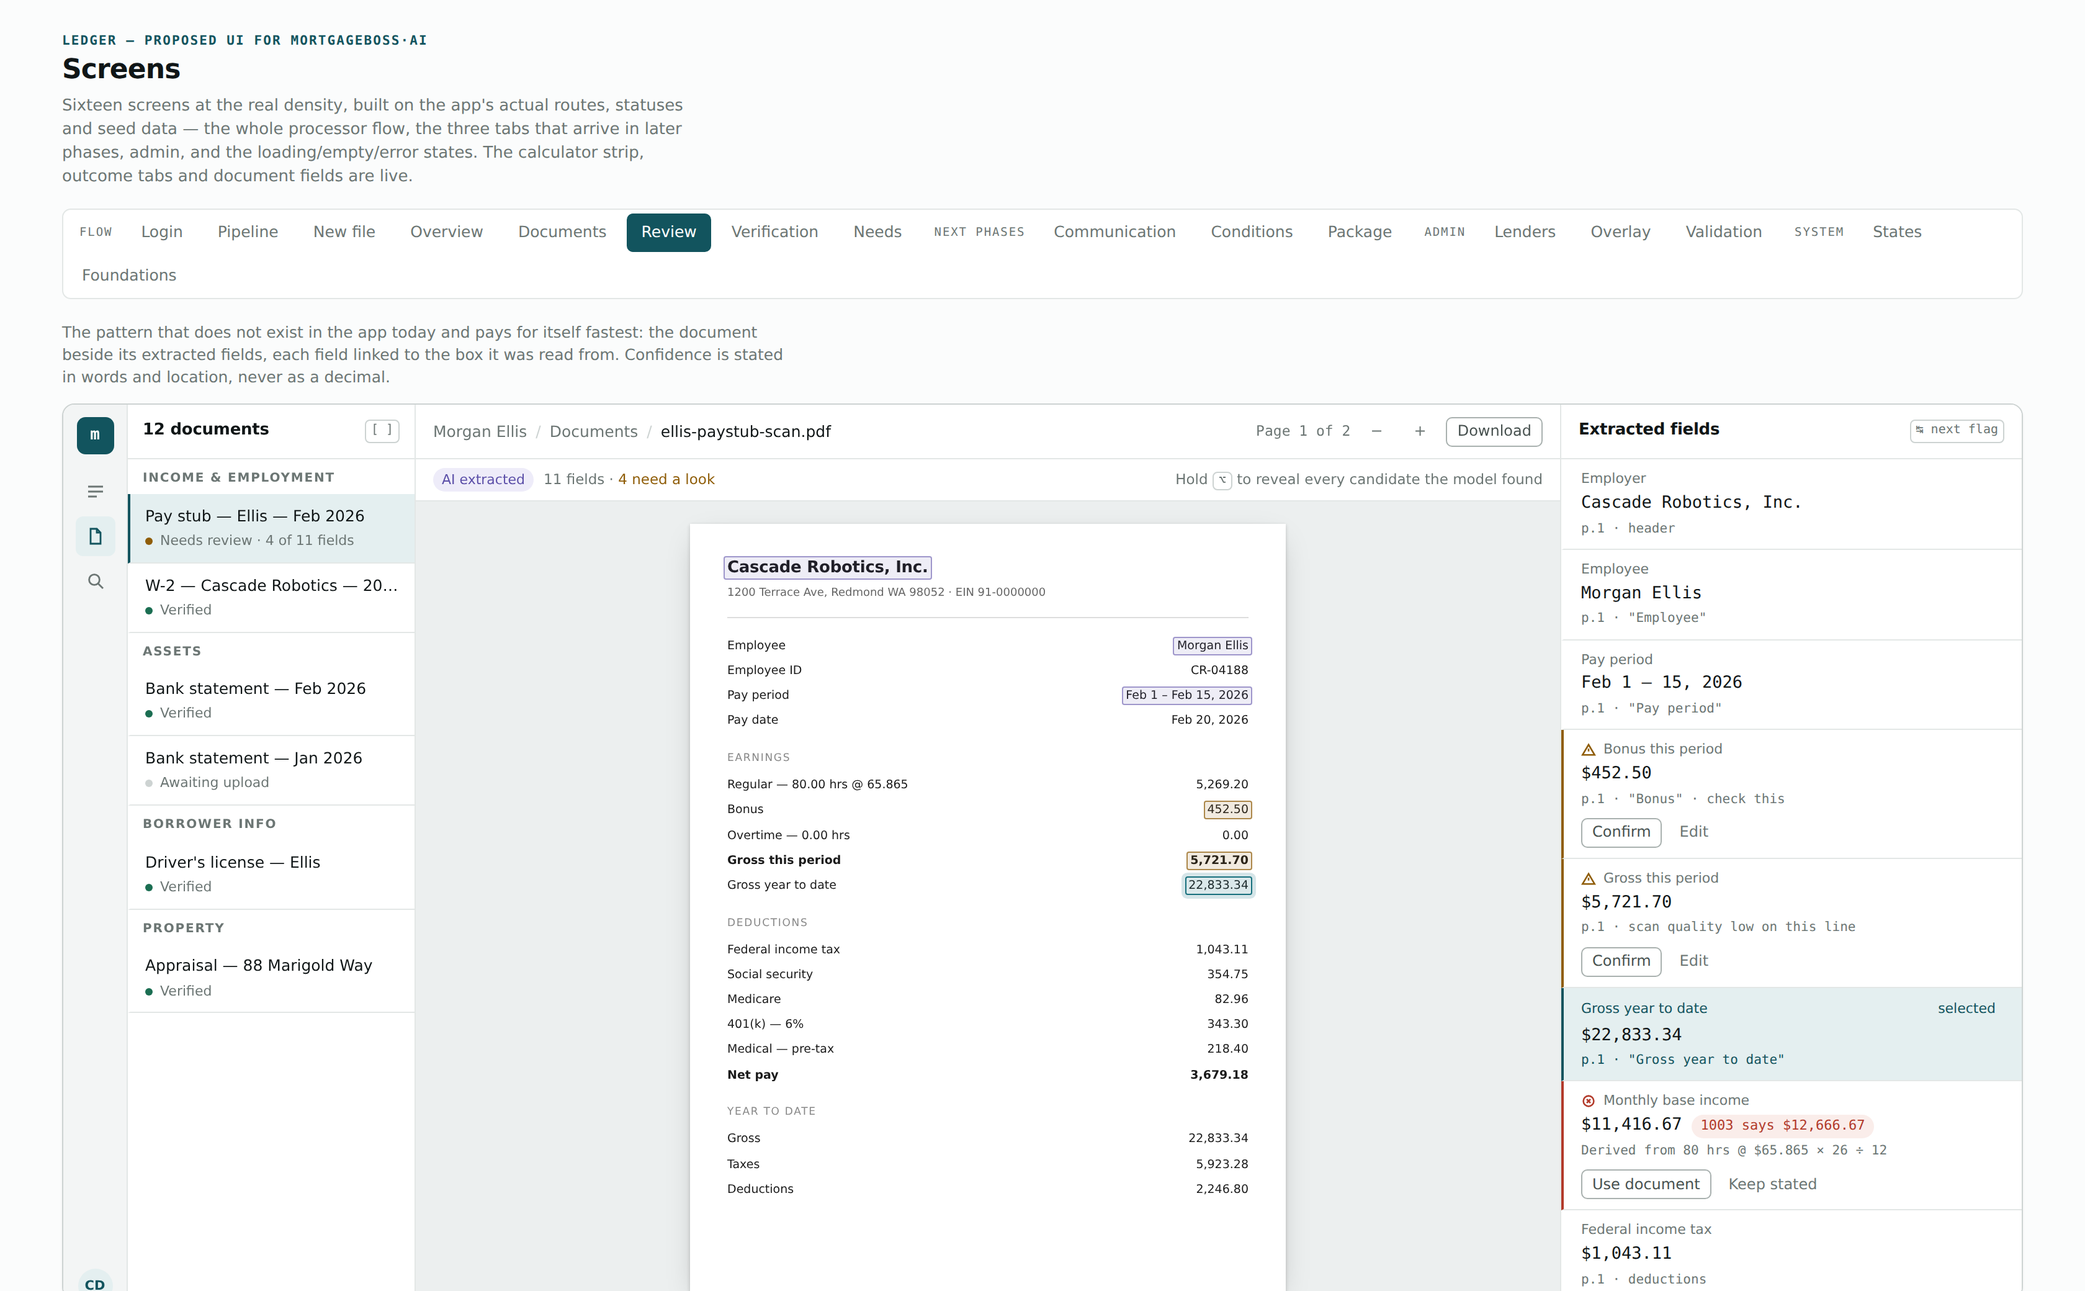
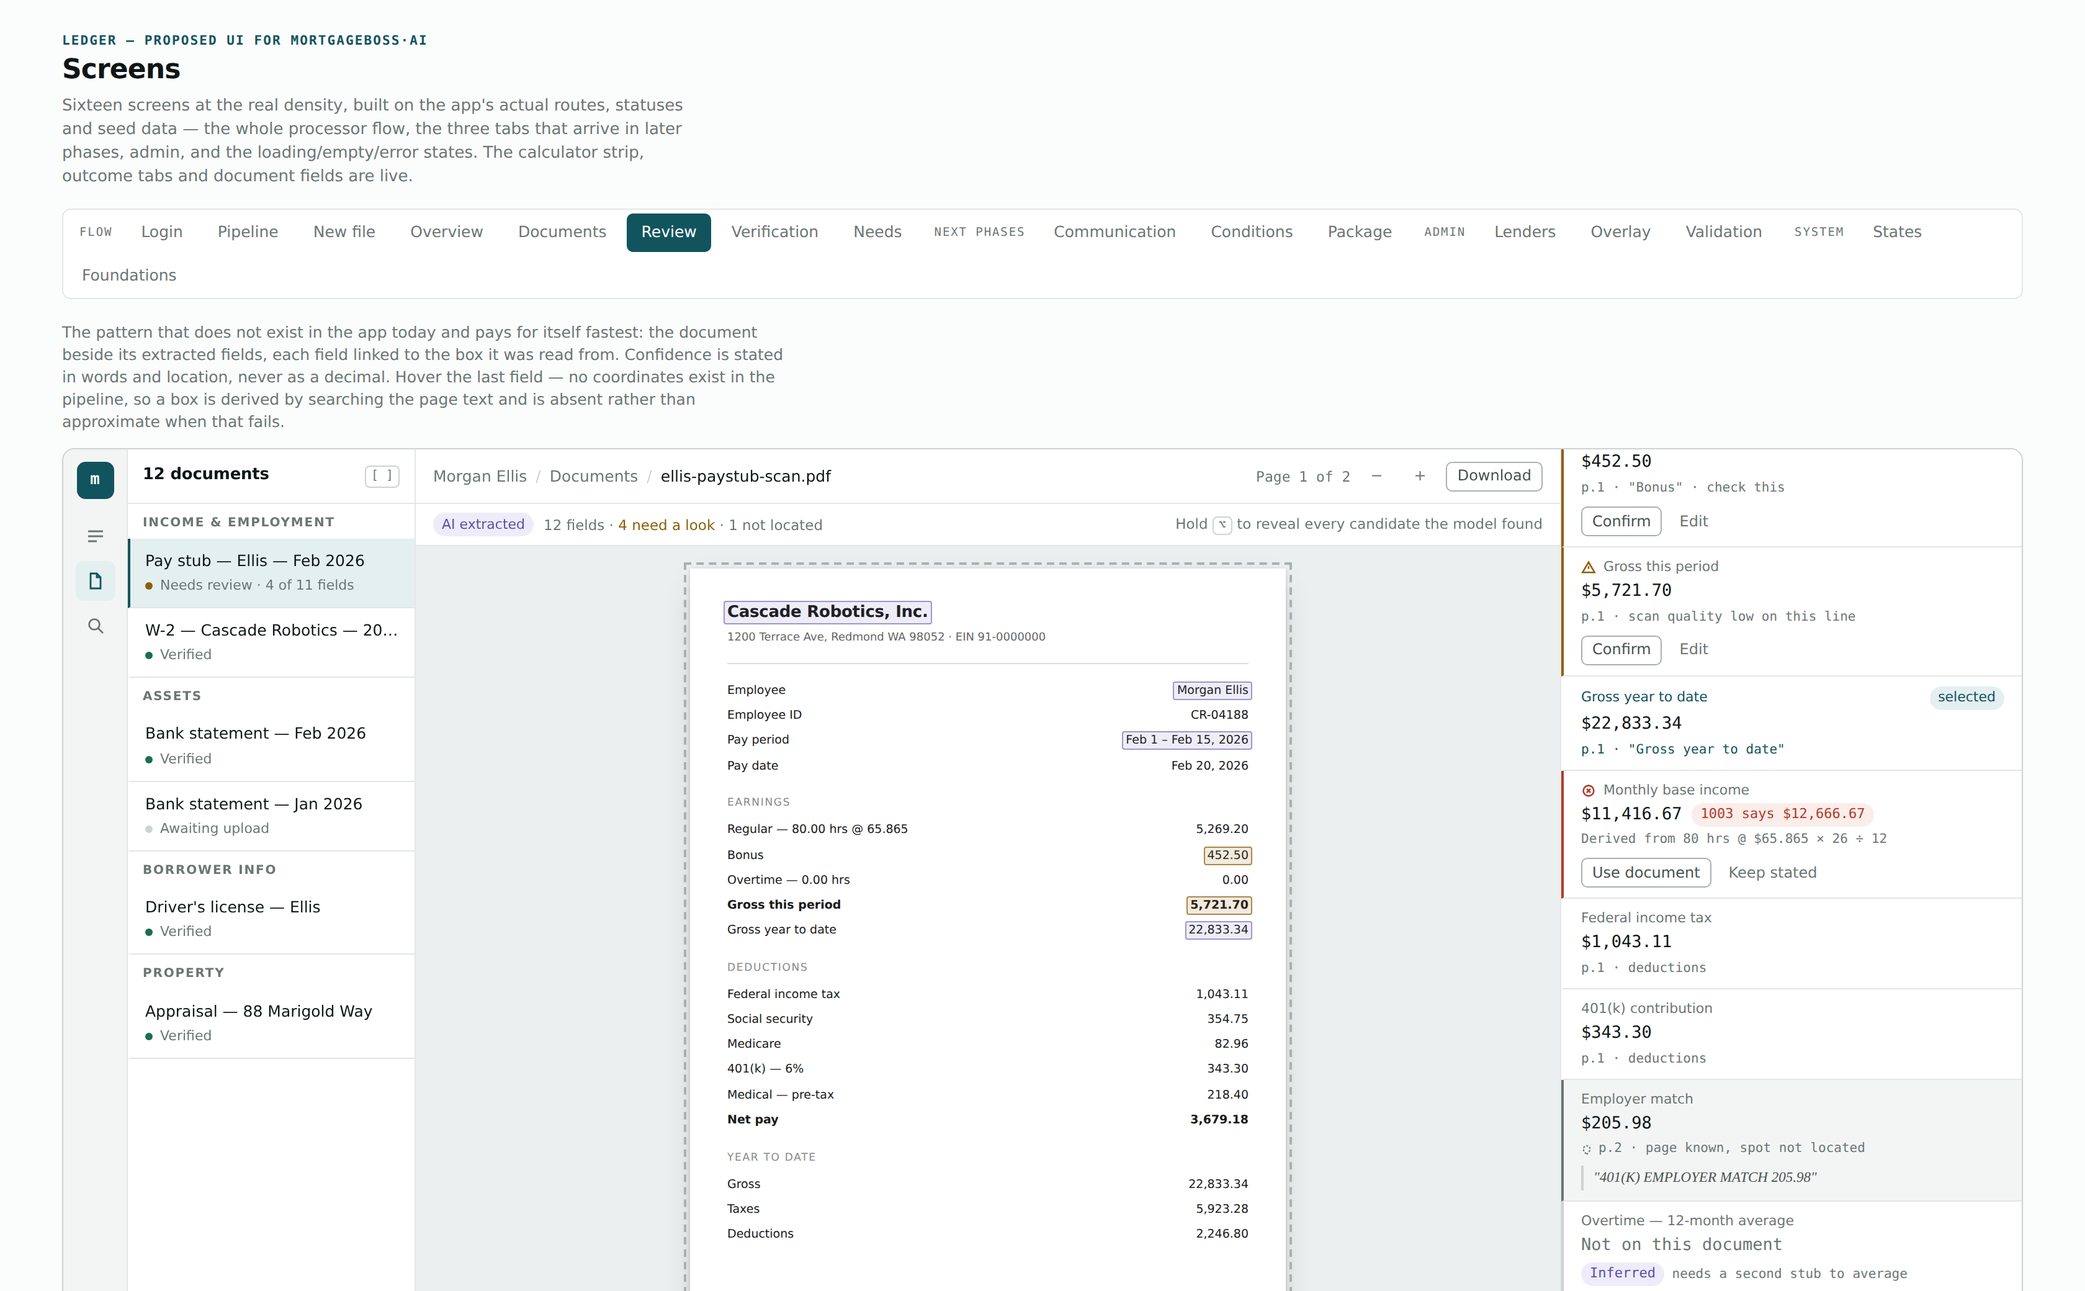
Some notes
docs: Ledger — the page-only review state, and amendments A5-A6

Three changes, none of which touch app code.

The design debt LP-UI-029 created is paid. There are no bounding boxes in
the extraction pipeline and none can be derived on a scan, so the Review
screen could not keep its promise of a rectangle on every field. It now
carries a twelfth field, "Employer match", in a page-known-spot-not-located
state: hovering it lights no box, the page takes a dashed outline, and the
field shows its value, a dashed-pin provenance line and the verbatim snippet
quoted in serif. Deliberately not styled as a problem — no amber, no warning
glyph, no left rail. On a scanned document this is every field, and a screen
that flags the normal case as a fault teaches processors to ignore the flag.
Foundations gains a Provenance row kept separate from status, because a field
can be perfectly verified and still have no box. LP-UI-030 now has a mockup
for the case that will occur on every scan.

A5 — the codemod's expected figures were wrong. 811 exceeded the 808 grey
occurrences actually in the tree, so it was wrong when it was written.
Re-measured against HEAD: 803 replacements, 70 files, 3 unmapped. Corrected
in TICKETS.md, README.md and the script's own comments so LP-UI-004 is not
checked against a phantom drift.

A6 — every background/text pairing the codemod will create was measured
ahead of the ticket. All three clear 4.5:1 in both themes, so A2's earlier
[…]

diff --git a/docs/design/ledger/ledger-screens.html b/docs/design/ledger/ledger-screens.html
@@ -480,6 +480,16 @@ button { font: inherit; color: inherit; }
 .phase-note { display: inline-flex; align-items: center; gap: 6px; font-size: 11px; font-family: "IBM Plex Mono", monospace; color: var(--ai); background: var(--ai-soft); padding: 2px 8px; border-radius: 10px; }
 .sgrp { font-family: "IBM Plex Mono", monospace; font-size: 9.5px; letter-spacing: .1em; text-transform: uppercase; color: var(--ink-3); padding: 0 7px 0 10px; align-self: center; }
 
+/* provenance: how we know where a value came from (LP-UI-029 — no coordinates
+   exist, so a box is derived and optional, and absent rather than approximate) */
+.prov { display: flex; align-items: center; gap: 5px; font-family: "IBM Plex Mono", monospace; font-size: 10.5px; color: var(--ink-3); margin-top: 3px; }
+.prov .pin { width: 9px; height: 9px; flex: none; }
+.quote { display: block; margin-top: 5px; border-left: 2px solid var(--line-2); padding: 2px 0 2px 8px; font-family: "IBM Plex Serif", Georgia, serif; font-style: italic; font-size: 11.5px; color: var(--ink-2); }
+.field.pageonly { border-left-color: var(--line-2); }
+.field.pageonly.live { background: var(--surface-2); border-left-color: var(--ink-3); }
+.page.unlocated { outline: 2px dashed var(--line-ctl); outline-offset: 3px; }
+.page-flag { position: absolute; left: 0; right: 0; bottom: -26px; text-align: center; font-family: "IBM Plex Mono", monospace; font-size: 10px; letter-spacing: .06em; text-transform: uppercase; color: var(--ink-3); }
+
 .hidden { display: none !important; }
 @media (prefers-reduced-motion: reduce) { * { transition: none !important; animation: none !important; } }
 </style>
@@ -964,7 +974,7 @@ button { font: inherit; color: inherit; }
           </div>
           <div style="display:flex;align-items:center;gap:8px;padding:7px 14px;border-bottom:1px solid var(--line);background:var(--surface);font-size:11.5px;color:var(--ink-3)">
             <span class="chip ai">AI extracted</span>
-            <span>11 fields · <b style="color:var(--attention);font-weight:500">4 need a look</b></span>
+            <span>12 fields · <b style="color:var(--attention);font-weight:500">4 need a look</b> · <b style="font-weight:500">1 not located</b></span>
             <span style="flex:1"></span>
             <span>Hold <span class="kbd">⌥</span> to reveal every candidate the model found</span>
           </div>
@@ -1056,6 +1066,15 @@ button { font: inherit; color: inherit; }
             <div class="fv">$343.30</div>
             <div class="fs">p.1 · deductions</div>
           </div>
+          <div class="field pageonly" data-pageonly>
+            <div class="fk">Employer match</div>
+            <div class="fv">$205.98</div>
+            <div class="prov">
+              <svg class="pin" viewBox="0 0 12 12" fill="none" stroke="currentColor" stroke-width="1.4"><path d="M6 10.5S9.6 7.4 9.6 5A3.6 3.6 0 0 0 2.4 5c0 2.4 3.6 5.5 3.6 5.5Z" stroke-dasharray="2 1.6"/></svg>
+              p.2 · page known, spot not located
+            </div>
+            <span class="quote">"401(K) EMPLOYER MATCH 205.98"</span>
+          </div>
           <div class="field" style="border-left-color:var(--line-2)">
             <div class="fk">Overtime — 12-month average</div>
             <div class="fv" style="color:var(--ink-3)">Not on this document</div>
@@ -1113,6 +1132,15 @@ button { font: inherit; color: inherit; }
           <span class="st ai"><svg class="g" viewBox="0 0 16 16" fill="none" stroke="currentColor" stroke-width="1.6"><path d="M8 2.5 9.5 6.5 13.5 8 9.5 9.5 8 13.5 6.5 9.5 2.5 8 6.5 6.5z"/></svg>AI proposed</span>
         </div>
         <div class="note">Color, glyph shape and word all carry the state. Drop the color and the row still reads — which is what happens for the 1 in 12 men with a color vision deficiency, and on a printed file.</div>
+
+        <h3>Provenance — how we know, which is not a status</h3>
+        <div class="demorow">
+          <span class="st mut" style="color:var(--ink-2)"><svg class="g" viewBox="0 0 12 12" fill="none" stroke="currentColor" stroke-width="1.4"><path d="M6 10.5S9.6 7.4 9.6 5A3.6 3.6 0 0 0 2.4 5c0 2.4 3.6 5.5 3.6 5.5Z"/><circle cx="6" cy="5" r="1.3"/></svg>Located — page and spot</span>
+          <span class="st mut"><svg class="g" viewBox="0 0 12 12" fill="none" stroke="currentColor" stroke-width="1.4"><path d="M6 10.5S9.6 7.4 9.6 5A3.6 3.6 0 0 0 2.4 5c0 2.4 3.6 5.5 3.6 5.5Z" stroke-dasharray="2 1.6"/></svg>Page known, spot not located</span>
+          <span class="st ai"><svg class="g" viewBox="0 0 16 16" fill="none" stroke="currentColor" stroke-width="1.6"><path d="M8 2.5 9.5 6.5 13.5 8 9.5 9.5 8 13.5 6.5 9.5 2.5 8 6.5 6.5z"/></svg>Inferred, not read</span>
+          <span class="st mut"><svg class="g" viewBox="0 0 16 16" fill="none" stroke="currentColor" stroke-width="1.5" stroke-dasharray="2 2"><circle cx="8" cy="8" r="5.6"/></svg>Not on this document</span>
+        </div>
+        <div class="note">The extraction pipeline stores a page and a verbatim snippet, never a rectangle — the box is derived by searching the page's text layer, so it is <b>absent rather than approximate</b> when the search fails, which on a scanned document is every field. A missing box is therefore a normal condition and is never drawn as a fault: the value, the page and the quoted line are all still there. Provenance is a separate channel from status — a field can be perfectly verified and still have no box.</div>
 
         <h3>Controls</h3>
         <div class="demorow">
@@ -2117,7 +2145,7 @@ button { font: inherit; color: inherit; }
     new: "Two ways into a file, honestly ranked. The MISMO drop is the primary action because it fills in everything the hand-entry form asks for; the form sits below it for the files that arrive without one. Only two fields are required, which matches the model — a loan file is allowed to start sparse.",
     overview: "The file, with the loan's vital signs pinned to a context rail that never scrolls away. The centrepiece is the reconciliation ledger — stated against found, side by side, each row rail-coded and each value linked to the page it came from. That comparison is the product; today it is scattered across three tabs.",
     docs: "Upload, classification and freshness in one place. The processing rows sit above the list rather than inside it, so watching three uploads land doesn't disturb the nine documents already there. Freshness and duplicates move to the context rail, where they are answerable in one action instead of noticed one row at a time.",
-    review: "The pattern that does not exist in the app today and pays for itself fastest: the document beside its extracted fields, each field linked to the box it was read from. Confidence is stated in words and location, never as a decimal.",
+    review: "The pattern that does not exist in the app today and pays for itself fastest: the document beside its extracted fields, each field linked to the box it was read from. Confidence is stated in words and location, never as a decimal. Hover the last field — no coordinates exist in the pipeline, so a box is derived by searching the page text and is absent rather than approximate when that fails.",
     verify: "The screen the app is really about. Calculators become a strip you expand one at a time, with the arithmetic shown rather than hidden. Findings are rail-coded rows, not nested cards: outcome, reason, guideline citation, the exact source, then the actions.",
     needs: "The self-maintaining checklist, promoted out of the middle of the Overview into its own route. Every need says where it came from and how much to trust it — a baseline requirement reads differently from the AI's reading, and an AI proposal is never acted on until a processor confirms it.",
     comm: "Designed ahead of Phase 4. The thread is the request mechanism: a message carries the needs it is asking for, and a reply's attachment is classified, matched and closed against them automatically — with the automatic step shown in the thread as its own turn, never silently.",
@@ -2315,11 +2343,32 @@ button { font: inherit; color: inherit; }
   }
 
   function select(key) {
+    page.classList.remove("unlocated");
+    var flag = page.querySelector(".page-flag");
+    if (flag) flag.remove();
     Object.keys(boxes).forEach(function (k) { boxes[k].classList.toggle("live", k === key); });
     fields.forEach(function (f, i) { f.classList.toggle("live", LINK[i] === key); });
   }
 
   fields.forEach(function (fld, i) {
+    if (fld.hasAttribute("data-pageonly")) {
+      // No coordinates exist for this value, so there is no box to light. The
+      // page is flagged instead — honest about what is known, and not styled as
+      // an error, because on a scanned document this is the normal case.
+      fld.style.cursor = "default";
+      fld.addEventListener("mouseenter", function () {
+        Object.keys(boxes).forEach(function (k) { boxes[k].classList.remove("live"); });
+        fields.forEach(function (o) { o.classList.toggle("live", o === fld); });
+        page.classList.add("unlocated");
+        if (!page.querySelector(".page-flag")) {
+          var flag = document.createElement("div");
+          flag.className = "page-flag";
+          flag.textContent = "page 2 · no text layer to search";
+          page.appendChild(flag);
+        }
+      });
+      return;
+    }
     if (!LINK[i]) return;
     fld.style.cursor = "pointer";
     fld.addEventListener("mouseenter", function () { select(LINK[i]); });

diff --git a/docs/design/ledger/AMENDMENTS.md b/docs/design/ledger/AMENDMENTS.md
@@ -203,13 +203,90 @@ mockup needs a designed *"page known, spot unknown"* field state — page number
 quoted snippet, no box, and no implication that one is missing by error. That state
 is needed regardless, since 0.9% of valued fields have no page either.
 
-**Owed by the design side, before LP-UI-030 starts:** add that state to the Review
-screen and to the Foundations state vocabulary. Until it exists, LP-UI-030 has no
-mockup for a case that will occur on every scanned document.
+**Owed by the design side, before LP-UI-030 starts:** ~~add that state to the
+Review screen and to the Foundations state vocabulary.~~ **Done, 2026-08-29 19:2x.**
+
+The Review screen now carries a twelfth field, *Employer match*, in the
+**page known, spot not located** state. Hovering it lights no box; instead the page
+takes a dashed outline and a caption reading *"page 2 · no text layer to search"*.
+The field itself shows the value normally, a dashed-pin provenance line
+(`p.2 · page known, spot not located`) and the verbatim snippet quoted in serif
+italic — the document speaking, which is the one place that face is used.
+
+Deliberately **not** styled as a problem: no amber, no warning glyph, no left rail.
+On a scanned document this is every field, and a screen that flags the normal case
+as a fault teaches processors to ignore the flag. The header strip counts it
+honestly — "12 fields · 4 need a look · 1 not located".
+
+Foundations gains a **Provenance** row, kept separate from the status vocabulary,
+because a field can be perfectly verified and still have no box:
+
+| | meaning |
+|---|---|
+| solid pin | Located — page and spot |
+| dashed pin | Page known, spot not located |
+| violet spark | Inferred, not read |
+| dashed circle | Not on this document |
+
+LP-UI-030 now has a mockup for the case that will occur on every scan.
 
 Epic E stays scheduled where it is on the assumption that snippet matching is the
 approach. If the alternative — a real OCR/geometry stage — is preferred, that is a
 new backend epic and Epic E moves.
+
+---
+
+---
+
+## 2026-08-29 (later still) · A5 — the codemod's expected numbers were stale
+
+**Re-measured against HEAD before LP-UI-004 runs, so the ticket is not checked
+against a phantom.** The current dry run reports **803 replacements across 70
+files, 3 unmapped** — not the 811 the ticket and the script header claimed.
+
+Both figures are now corrected in `TICKETS.md` and in the script's own comments.
+
+**Why it moved is not established, and I am not going to invent a cause.** What
+*is* established: `gray-N` occurrences in `frontend/` `.ts`/`.tsx` are **808 at
+both the docs commit and HEAD** — identical — and no `.tsx` file lost a grey class
+between them. 803 mapped + 3 unmapped = 806, so two occurrences sit in a context
+the pattern does not match at all, which is expected and harmless. The earlier 811
+exceeded the total occurrence count, so it was wrong when it was written; the
+measurement taken now, against the tree the codemod will actually run on, is the
+one to trust.
+
+**For LP-UI-004:** expect 803 / 70 / 3. A drift from *that* is worth reading. And
+the acceptance criteria stand as written — the greps are the real proof, not the
+script's own report, which is exactly why they are there.
+
+---
+
+---
+
+## 2026-08-29 (idle tick) · A6 — pre-checked every pairing LP-UI-004 will create
+
+Nothing was moving, so the codemod's remaining contrast risk was measured ahead of
+the ticket rather than after it. Every `className` in the codebase was scanned for
+a background and a text colour that the mapping will convert together.
+
+**Three pairings will exist, and all three clear 4.5:1 in both themes:**
+
+| pairing | elements | light | dark |
+|---|---|---|---|
+| `bg-muted` + `text-muted-foreground` | 14 (10 files) | 4.87 | 5.38 |
+| `bg-muted` + `text-foreground-2` | 9 (8 files) | 7.50 | 8.71 |
+| `bg-muted` + `text-foreground` | 2 (1 file) | 16.70 | 14.15 |
+
+So A2's correction did its job: the 14 elements that would have landed on 4.28:1
+now sit at 4.87:1. LP-UI-004 should not produce a single new contrast failure.
+
+**One latent trap, closed in the SPEC rather than in the palette.**
+`bg-border` + `text-muted-foreground` is **4.27:1** in light. It does not occur —
+nothing pairs them — so there is nothing to fix, but the mapping sends
+`bg-gray-200/300` to `bg-border`, and the next person to put muted text on one of
+those surfaces would land under the floor with no warning. `SPEC.md` now states
+that `bg-border` is for rules, dividers, dots and troughs, never a text surface,
+and points at `bg-muted` as the filled alternative.
 
 ---
 

diff --git a/docs/design/ledger/SPEC.md b/docs/design/ledger/SPEC.md
@@ -68,6 +68,10 @@ count. Those four numbers are the reason a processor switches tabs today.
   `text-muted-foreground`, `border-border`, `border-input`, `bg-muted`.
   **No `gray-*` may re-enter the codebase.** Add a lint rule if it does.
 - `border` = decorative hairline. `input` = control border, clears 3:1.
+- **`bg-border` is not a text surface.** It is for rules, dividers, dots and
+  progress troughs. `text-muted-foreground` on it is 4.27:1 in light — below the
+  floor. No element pairs them today and none should; if a filled surface is
+  wanted, use `bg-muted` (4.87:1 with the same text).
 - Status labels stay domain-specific (`lib/status.ts`); only the colour
   vocabulary is shared. "Must fix" and "Blocked" are the same tone, different
   words, and the words are what processors quote.

diff --git a/docs/design/ledger/README.md b/docs/design/ledger/README.md
@@ -70,5 +70,6 @@ Confirm these before LP-UI-001, since they are baked into the tokens:
 
 - Every text tone clears 4.5:1 against its own ground in **both** themes
 - `--input` (control border) clears 3:1 — WCAG 1.4.11
-- The codemod was dry-run against this repo on 2026-08-29: **811 replacements,
-  70 files, 3 left for a human** (named in the script's footer)
+- The codemod was dry-run against this repo on 2026-08-29: **803 replacements,
+  70 files, 3 left for a human** (named in the script's footer). Re-measured against
+  HEAD before LP-UI-004; see `AMENDMENTS.md` A5 for why the earlier figure was wrong.

diff --git a/docs/design/ledger/TICKETS.md b/docs/design/ledger/TICKETS.md
@@ -103,7 +103,7 @@ common text colour in the app** — is 2.54:1 on white. It fails AA for text and
 fails even the 3:1 bar for icons. `text-gray-300` (19 uses) is 1.47:1. Everything
 in the 300–500 band lands on `muted-foreground` at 4.56:1.
 
-Dry-run verified against the repo on 2026-08-29: **811 replacements, 70 files, 3
+Dry-run verified against the repo on 2026-08-29: **803 replacements, 70 files, 3
 left over.** Those three are inverted surfaces (a dark tooltip on a light page) and
 are named in the script's footer with their fix.
 
